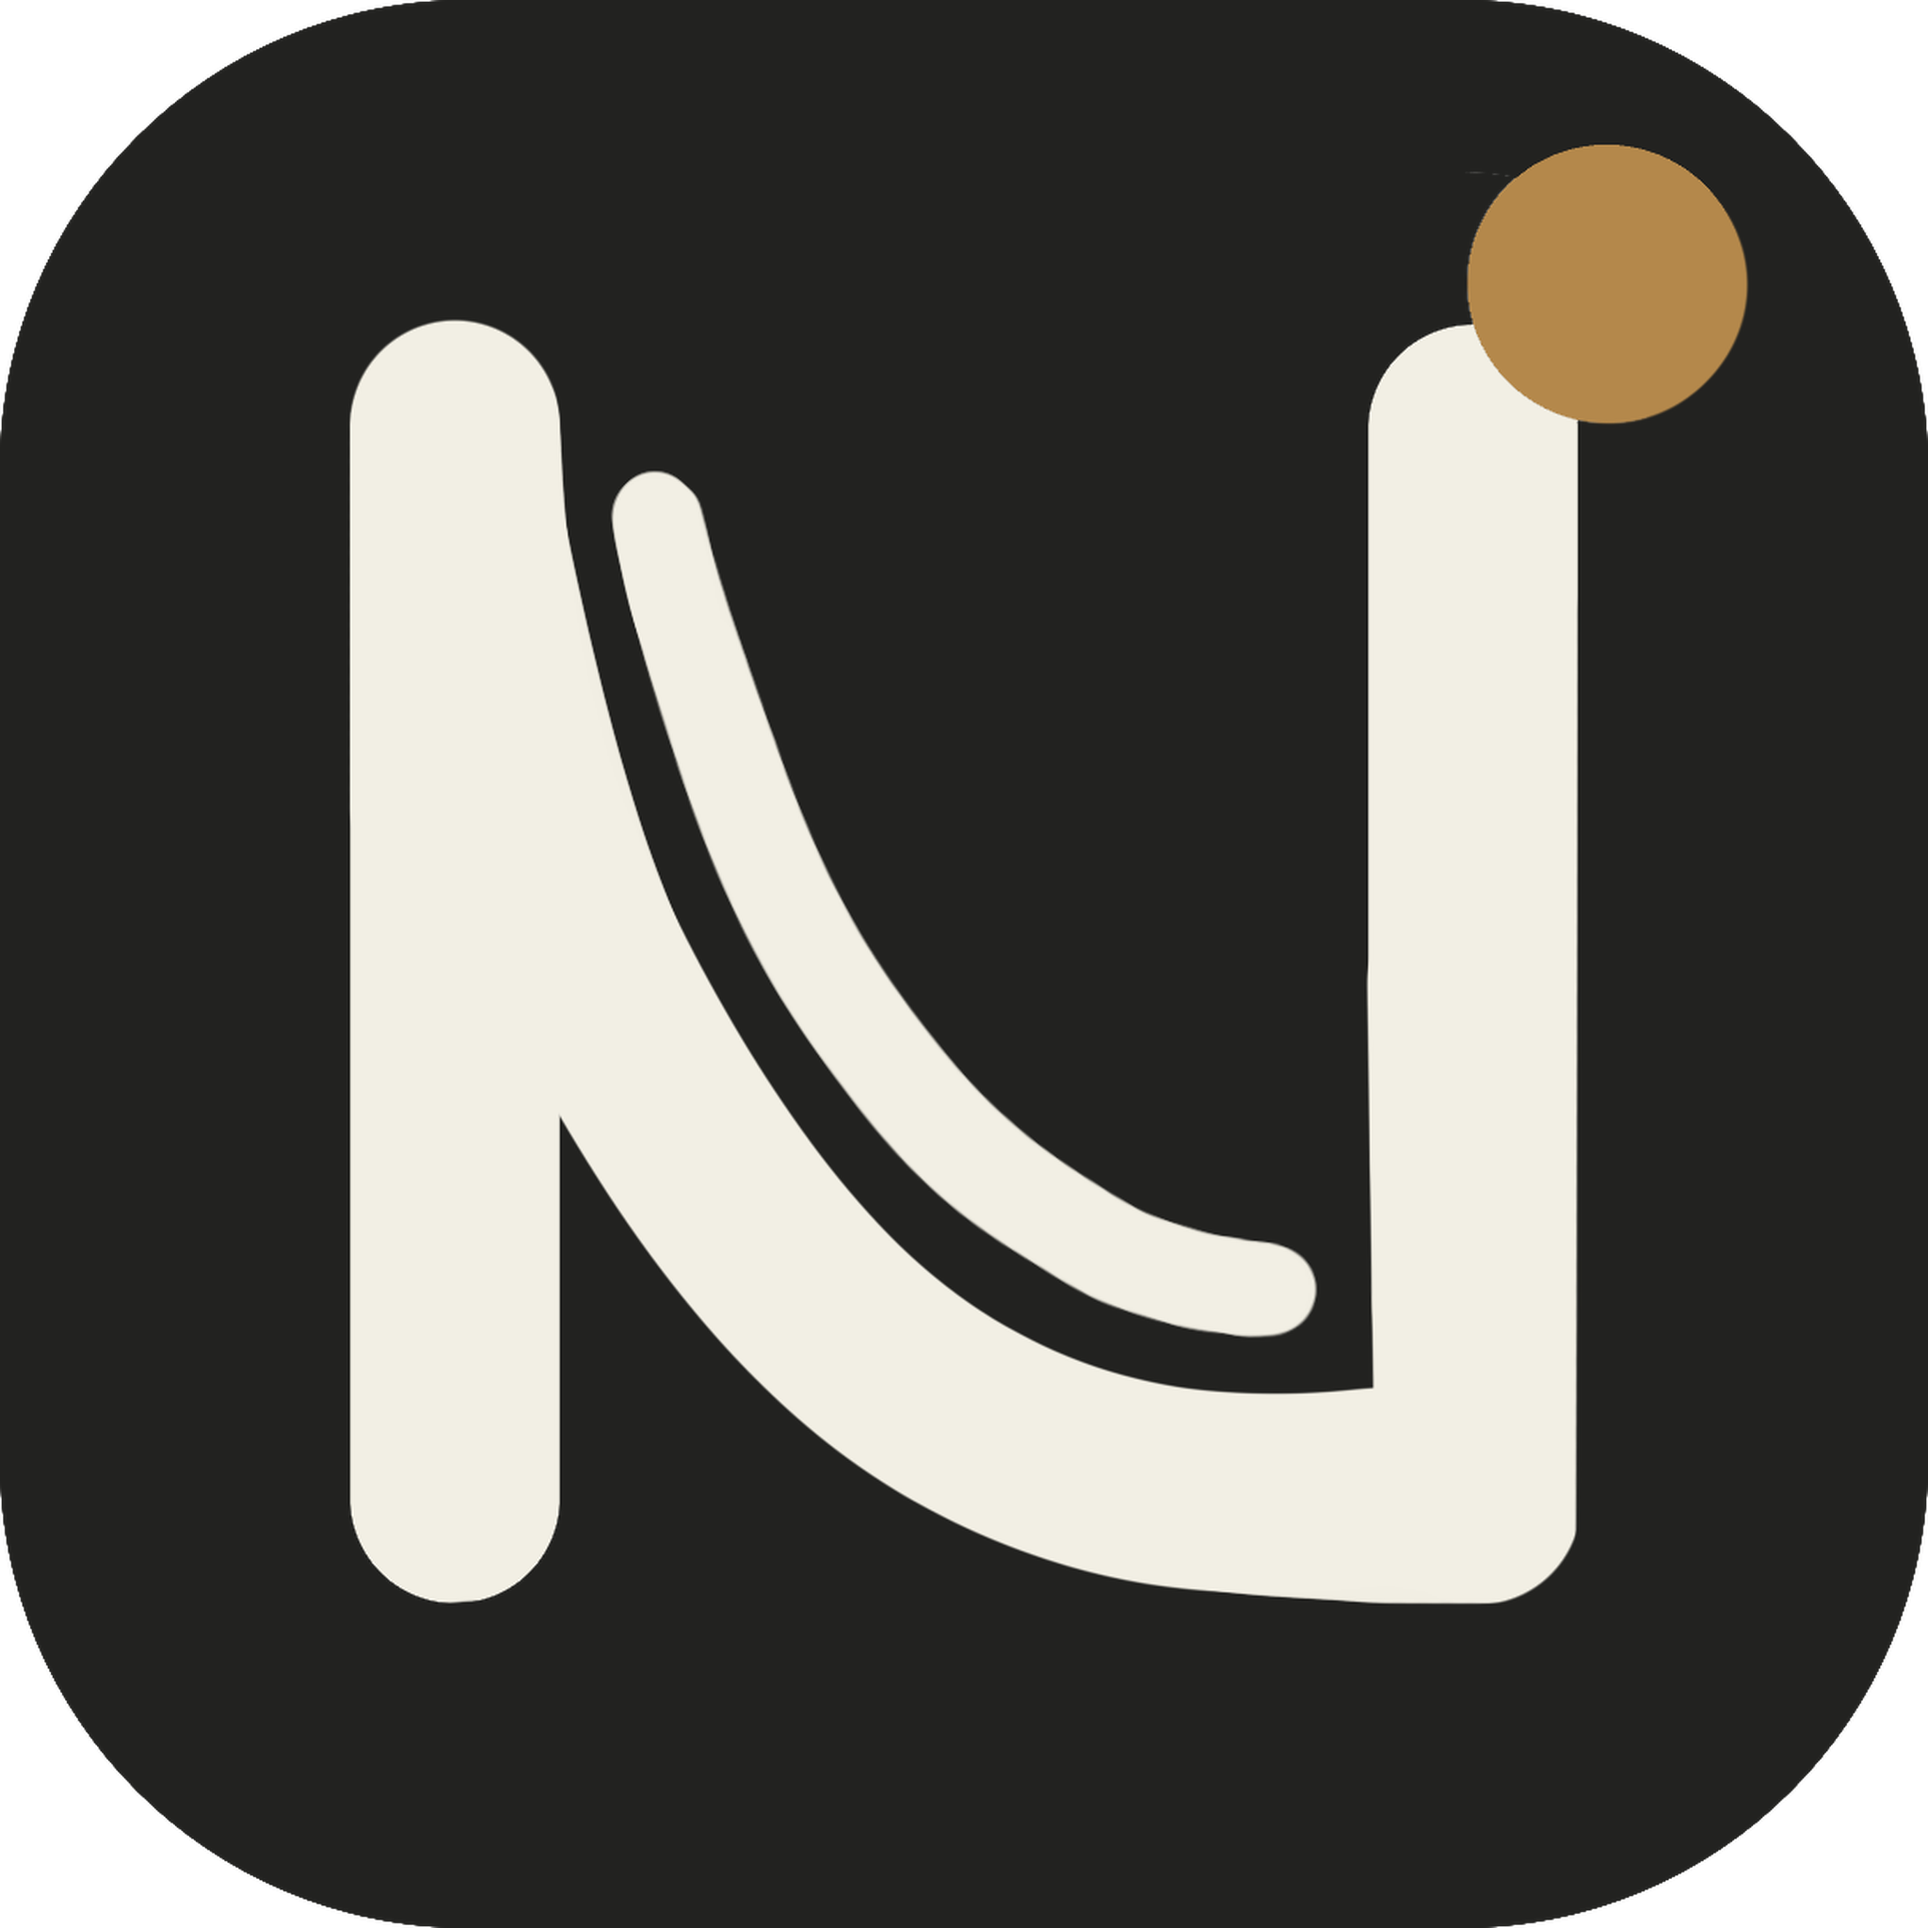
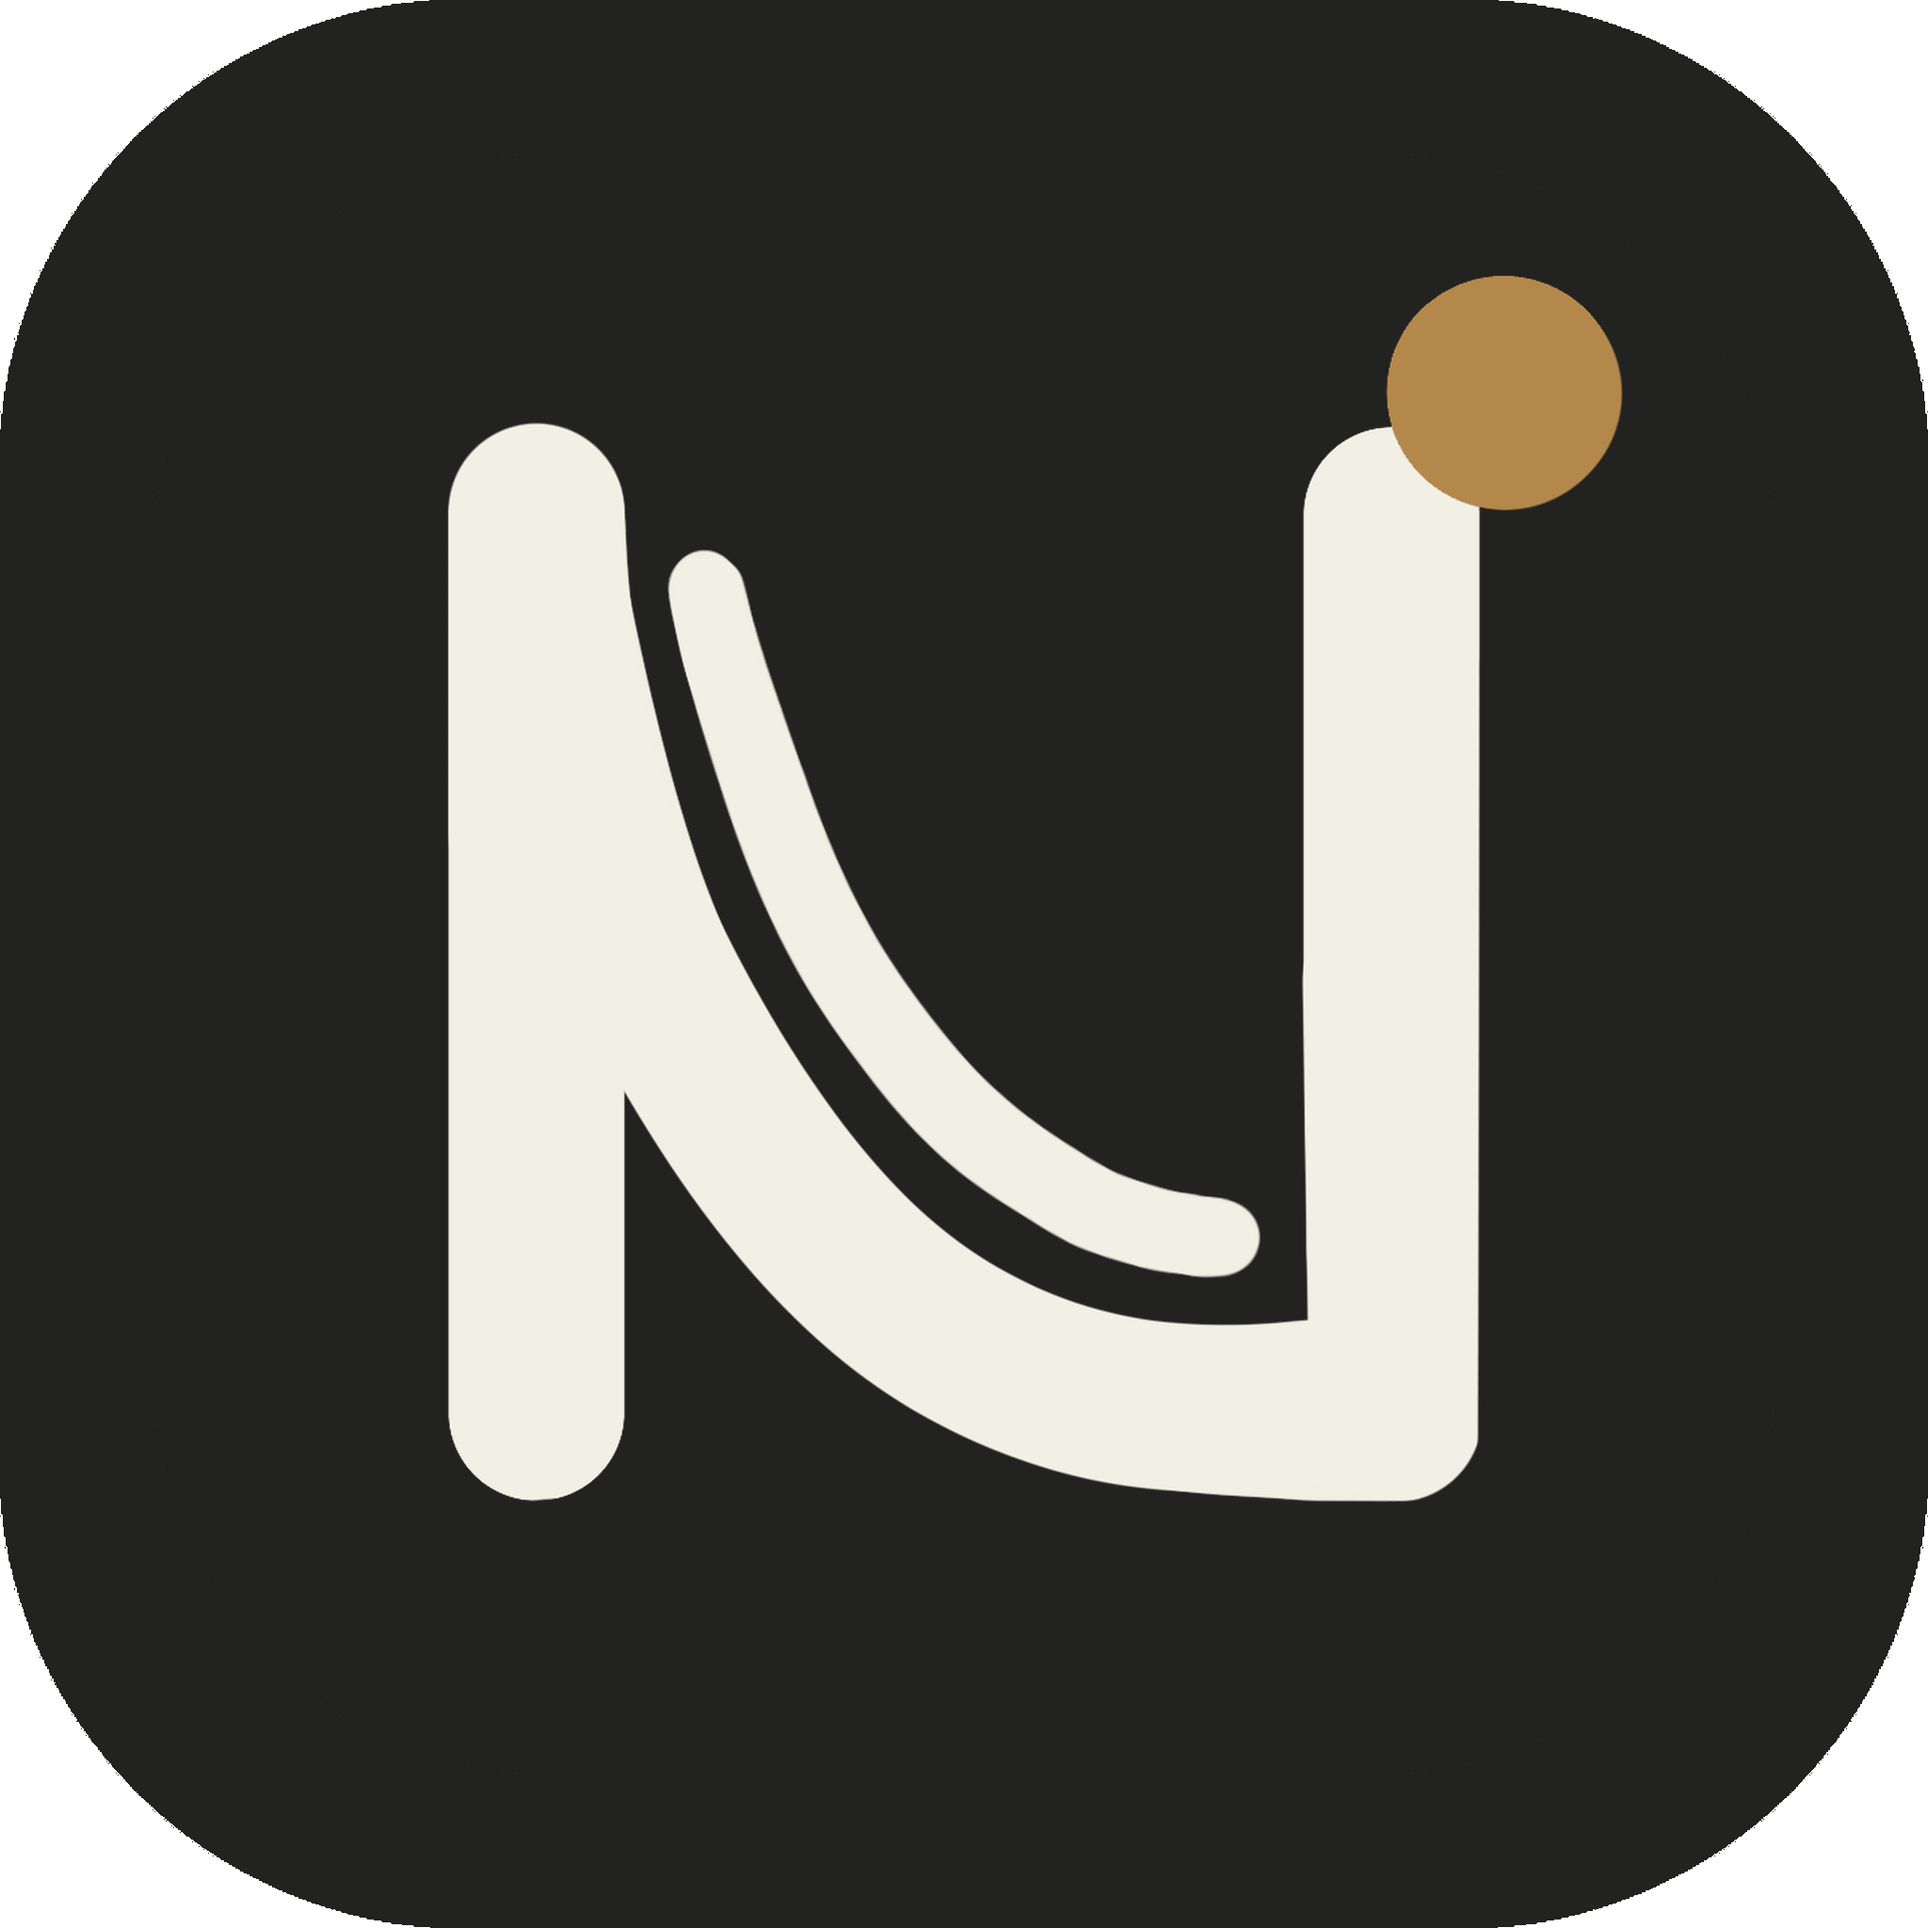
branding: 终稿 N 等比缩至 84%（黑边加大）并更新窗口图标

Changed region(s): [[0.1562, 0.0625, 0.9062, 0.8438]]

diff --git a/docs/PLAN.md b/docs/PLAN.md
@@ -419,4 +419,4 @@ PicNest/
 
 68. **Logo 概念与 PSD 底稿（2026-11-09，Feb 问设计想法）**：`branding/` 下三版矢量概念——A 巢·照片卡（照片卡+U 形巢弧+金蛋，推荐主图标）、B 巢鸮（猫头鹰耳朵/双眼/喙+巢弧，吉祥物方向）、C N 字母标（圆角画框+N+金点，16px 最稳）；每版有浅底/深底 SVG（深底墨线换纸白）与 1024/512 PNG。`PicNest-logo-template.psd` 2048×2048，图层含暖纸背景、80% 安全区、22.5% 圆角、64 网格、中心十字、A/B/C 底稿（B/C 默认隐藏）；`preview-concepts.png`/`preview-sizes.png` 为对照图，README 写设计约束/导出规格/检查清单。**尚未接入 app/icon.png 与 .ico**，等 Feb 选定/改稿后再导出多尺寸。
 
-69. **黑底 N 标终稿 + 软件图标接入（2026-11-09，Feb 给 PSD）**：Feb 在 `PicNest-logo-template.psd` 保留 C 层（黑底 N + 金点）后，仓库保存母版 `branding/final/PicNest-logo.psd`；用 ag-psd + canvas 读出可见层 canvas（1212×1212，透明外角），PIL LANCZOS 导出 2048/1024/512/256/128/64/48/32/16 PNG、多尺寸 ICO、浅/深底预览。已替换 `app/_internal_data/icon.png`（1024）与 `icon.ico`（旧件备份 `icon-old.*`），重启后通过 WM_GETICON 提取窗口图标验证为新 N 标。**exe 文件内嵌图标仍是旧图**，需 rcedit/Resource Hacker 改 PE 资源；窗口/任务栏已生效。几何版 SVG 改名 `concepts/monogram-geometric-draft.svg` 仅作矢量化参考。
+69. **黑底 N 标终稿 + 软件图标接入（2026-11-09，Feb 给 PSD）**：Feb 在 `PicNest-logo-template.psd` 保留 C 层（黑底 N + 金点）后，仓库保存母版 `branding/final/PicNest-logo.psd`；用 ag-psd + canvas 读出可见层 canvas（1212×1212，透明外角），PIL LANCZOS 导出 2048/1024/512/256/128/64/48/32/16 PNG、多尺寸 ICO、浅/深底预览。已替换 `app/_internal_data/icon.png`（1024）与 `icon.ico`（旧件备份 `icon-old.*`），重启后通过 WM_GETICON 提取窗口图标验证为新 N 标。**exe 文件内嵌图标仍是旧图**，需 rcedit/Resource Hacker 改 PE 资源；窗口/任务栏已生效。Feb 追加「N 缩小 / 黑色面积加大」：从最终 2048 PNG 分解黑底 tile 与前景（纸白 N + 金点），前景等比缩至 **84%** 居中叠回，重导出 2048…16 PNG、ICO、预览并再次替换 `app/_internal_data/icon.*` + 重启；PSD 母版保持 100% 原始。几何版 SVG 改名 `concepts/monogram-geometric-draft.svg` 仅作矢量化参考。

diff --git a/branding/README.md b/branding/README.md
@@ -55,7 +55,7 @@
 
 ## 终稿方向：黑底 N 标（`final/`）
 
-最终采用你在 `PicNest-logo-template.psd` 里保留的 C 层（黑底 N + 金点）。仓库里保存了这份 PSD 原件，图标由它的可见层导出：
+最终采用你在 `PicNest-logo-template.psd` 里保留的 C 层（黑底 N + 金点）。仓库里保存了这份 PSD 原件；按你后来的要求，最终 PNG/ICO 里把 N 组等比缩到 **84%**（四周黑边加大），PSD 仍是 100% 原始母版：
 
 - `final/PicNest-logo.psd`（最终母版，2048 × 2048，参考层均已隐藏）
 - `final/picnest-icon-2048.png` / 1024 / 512 / 256 / 128 / 64 / 48 / 32 / 16
